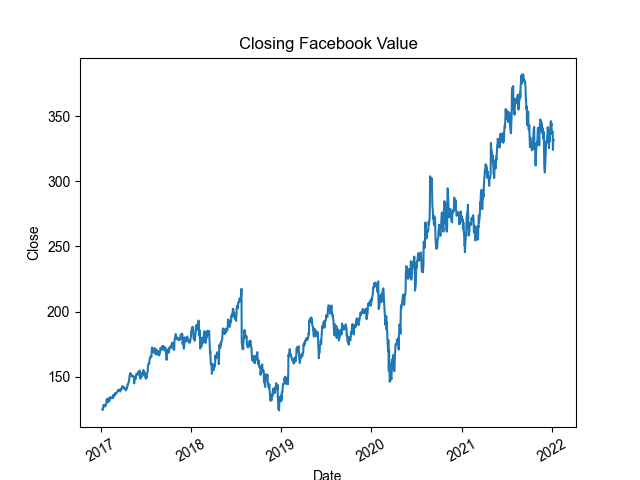
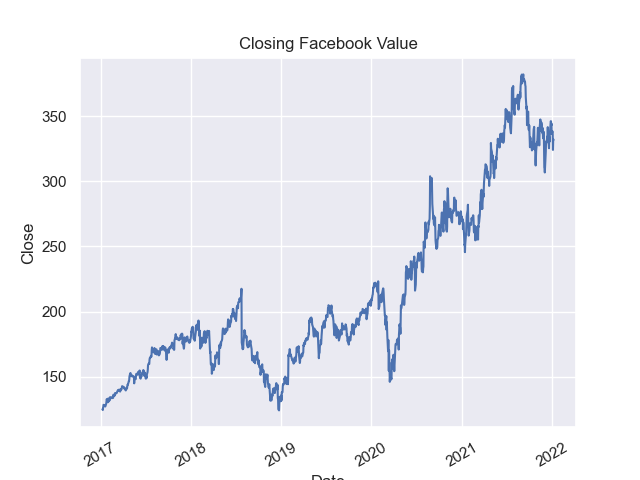
fixed threadding error

diff --git a/readApple.py b/readApple.py
@@ -1,6 +1,7 @@
 # Based on https://towardsdatascience.com/python-how-to-get-live-market-data-less-than-0-1-second-lag-c85ee280ed93
 
 #Data manipulation
+import matplotlib
 import numpy as np
 import pandas as pd
 #Data importing
@@ -10,13 +11,12 @@ from yfinance import tickers
 # plotting done based on https://compucademy.net/getting-stock-data-using-python-and-yfinance/
 import seaborn as sns
 import matplotlib.pyplot as plt
-
+matplotlib.use('Agg')
 
 def main():
     appleTicker = yf.Ticker('AAPL')
     appleData = appleTicker.history('5y')['Close']
-    print('read data')
-
+    plt.clf()
     sns.lineplot(data=appleData)
     sns.set_theme()
     plt.xticks(rotation=30)

diff --git a/readFacebook.py b/readFacebook.py
@@ -9,14 +9,15 @@ from yfinance import tickers
 
 # plotting done based on https://compucademy.net/getting-stock-data-using-python-and-yfinance/
 import seaborn as sns
+import matplotlib
 import matplotlib.pyplot as plt
+matplotlib.use('Agg')
 
 
 def main():
     facebookTicker = yf.Ticker('FB')
     facebookData = facebookTicker.history('5y')['Close']
-    print('read data')
-
+    plt.clf()
     sns.lineplot(data=facebookData)
     sns.set_theme()
     plt.xticks(rotation=30)

diff --git a/readGoogle.py b/readGoogle.py
@@ -9,14 +9,15 @@ from yfinance import tickers
 
 # plotting done based on https://compucademy.net/getting-stock-data-using-python-and-yfinance/
 import seaborn as sns
+import matplotlib
 import matplotlib.pyplot as plt
+matplotlib.use('Agg')
 
 
 def main():
     googleTicker = yf.Ticker('GOOG')
     googleData = googleTicker.history('5y')['Close']
-    print('read data')
-
+    plt.clf()
     sns.lineplot(data=googleData)
     sns.set_theme()
     plt.xticks(rotation=30)

diff --git a/readTesla.py b/readTesla.py
@@ -9,14 +9,15 @@ from yfinance import tickers
 
 # plotting done based on https://compucademy.net/getting-stock-data-using-python-and-yfinance/
 import seaborn as sns
+import matplotlib
 import matplotlib.pyplot as plt
+matplotlib.use('Agg')
 
 
 def main():
     teslaticker = yf.Ticker('TSLA')
     teslaData = teslaticker.history('5y')['Close']
-    print('read data')
-
+    plt.clf()
     sns.lineplot(data=teslaData)
     sns.set_theme()
     plt.xticks(rotation=30)

diff --git a/readUber.py b/readUber.py
@@ -9,14 +9,15 @@ from yfinance import tickers
 
 # plotting done based on https://compucademy.net/getting-stock-data-using-python-and-yfinance/
 import seaborn as sns
+import matplotlib
 import matplotlib.pyplot as plt
+matplotlib.use('Agg')
 
 
 def main():
     uberTicker = yf.Ticker('UBER')
     uberData = uberTicker.history('5y')['Close']
-    print('read data')
-
+    plt.clf()
     sns.lineplot(data=uberData)
     sns.set_theme()
     plt.xticks(rotation=30)

diff --git a/readDow.py b/readDow.py
@@ -9,14 +9,15 @@ from yfinance import tickers
 
 # plotting done based on https://compucademy.net/getting-stock-data-using-python-and-yfinance/
 import seaborn as sns
+import matplotlib
 import matplotlib.pyplot as plt
+matplotlib.use('Agg')
 
 
 def main():
     dowTicker = yf.Ticker('^DJI')
     dowData = dowTicker.history('5y')['Close']
-    print('read data')
-
+    plt.clf()
     sns.lineplot(data=dowData)
     sns.set_theme()
     plt.xticks(rotation=30)
